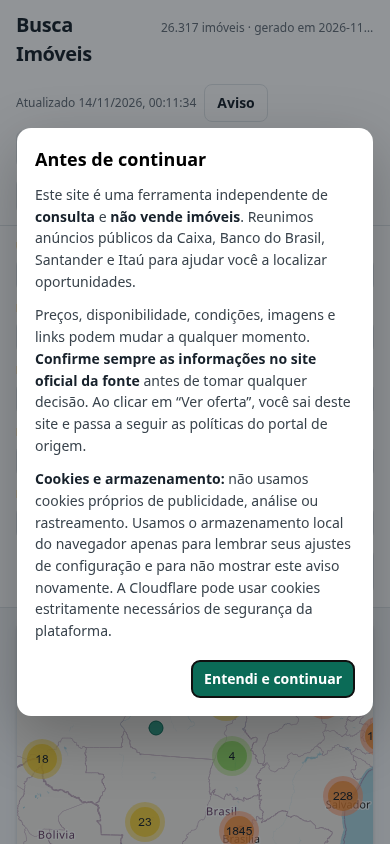
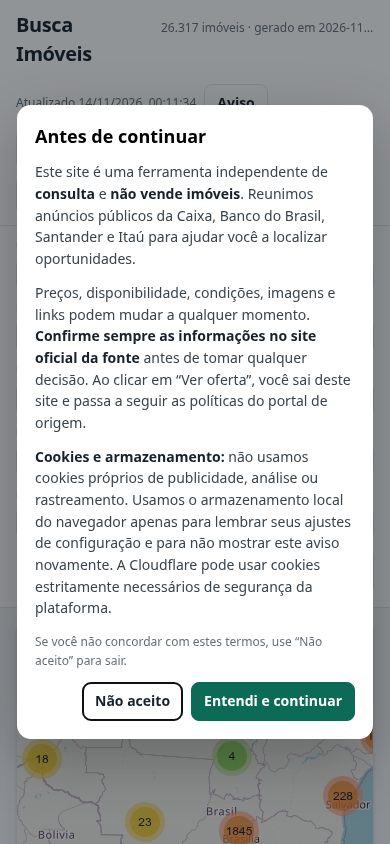
feat: botão Não aceito no aviso com saída para o Google

Changed region(s): [[0.0308, 0.1232, 0.9538, 0.8934]]

diff --git a/public/static/app.js b/public/static/app.js
@@ -292,6 +292,18 @@ function acceptNotice() {
   if (dialog) dialog.close();
 }
 
+function declineNotice() {
+  // window.close() só é permitido para abas abertas por script. Se o
+  // navegador bloquear, o fallback leva ao Google.
+  const canClose = window.opener && !window.opener.closed;
+  if (canClose) {
+    window.close();
+    setTimeout(() => window.location.replace("https://www.google.com/"), 300);
+    return;
+  }
+  window.location.replace("https://www.google.com/");
+}
+
 function showNoticeIfNeeded() {
   if (!noticeSeen()) openNotice();
 }
@@ -1620,6 +1632,7 @@ function bindEvents() {
   });
   $("#btn-notice").addEventListener("click", openNotice);
   $("#btn-notice-close").addEventListener("click", acceptNotice);
+  $("#btn-notice-decline").addEventListener("click", declineNotice);
   $("#btn-share").addEventListener("click", copyShareLink);
   $("#btn-geocode").addEventListener("click", () => startGeocode("filtered"));
   $("#btn-geocode-all").addEventListener("click", () => startGeocode("all"));

diff --git a/public/static/style.css b/public/static/style.css
@@ -287,7 +287,8 @@ dialog.notice-dialog { width: min(640px, 95vw); }
 .notice-form p { margin: 0 0 12px; font-size: 14px; line-height: 1.55; color: #39434c; }
 .notice-form p:last-of-type { margin-bottom: 0; }
 .notice-form strong { color: var(--ink); }
-.notice-actions { display: flex; justify-content: flex-end; margin-top: 18px; }
+.notice-decline-hint { margin-top: 14px !important; font-size: 12px !important; color: var(--muted) !important; }
+.notice-actions { display: flex; justify-content: flex-end; gap: 8px; flex-wrap: wrap; margin-top: 12px; }
 
 .config-form { padding: 18px; overflow: auto; max-height: 88vh; }
 .dialog-head { display: flex; align-items: center; justify-content: space-between; gap: 12px; margin-bottom: 6px; }

diff --git a/public/index.html b/public/index.html
@@ -183,7 +183,11 @@
         mostrar este aviso novamente. A Cloudflare pode usar cookies
         estritamente necessários de segurança da plataforma.
       </p>
+      <p class="notice-decline-hint">
+        Se você não concordar com estes termos, use “Não aceito” para sair.
+      </p>
       <div class="notice-actions">
+        <button id="btn-notice-decline" class="btn" type="button" title="Sair do site e ir para o Google">Não aceito</button>
         <button id="btn-notice-close" class="btn primary" type="button">Entendi e continuar</button>
       </div>
     </div>

diff --git a/docs/aviso-e-privacidade.md b/docs/aviso-e-privacidade.md
@@ -41,7 +41,21 @@ Título: **Antes de continuar**
 > novamente. A Cloudflare pode usar cookies estritamente necessários de
 > segurança da plataforma.
 
-Botão: **Entendi e continuar**
+Botões:
+
+- **Entendi e continuar** — fecha o aviso e grava a marca no `localStorage`.
+- **Não aceito** — tenta fechar a aba (quando ela foi aberta por script);
+  se o navegador bloquear, redireciona para `https://www.google.com/`.
+  O aviso não é marcado como lido; se a pessoa voltar, ele aparece de novo.
+
+> **Por que Google?** `window.close()` só funciona de forma confiável em abas
+> abertas por `window.open`. Em uma aba normal, o navegador ignora a chamada.
+> O redirecionamento com `location.replace` é a saída garantida e não deixa o
+> aviso no histórico.
+
+Texto do rodapé do aviso:
+
+> Se você não concordar com estes termos, use “Não aceito” para sair.
 
 ## 3. Sugestões alternativas
 

diff --git a/README.md b/README.md
@@ -211,7 +211,8 @@ Para outra frequência, edite o `cron`. O GitHub Actions sempre usa UTC.
 - **Aviso de primeira visita** — o site informa que é apenas consulta, que os
   dados devem ser confirmados nas fontes originais e que não há cookies
   próprios de análise/publicidade; usa-se `localStorage` para preferências e
-  para não repetir o aviso.
+  para não repetir o aviso. O botão **Não aceito** tenta fechar a aba e, se o
+  navegador bloquear, redireciona para o Google.
 - **Geocodificação** roda no Python, com cache e limite de requisições;
   os botões de geocodificação do site apenas orientam/abrem o workflow.
 - **Configurações** no navegador são locais; use Exportar + `importar_config.py`

diff --git a/docs/comparacao-visual.md b/docs/comparacao-visual.md
@@ -90,6 +90,8 @@ visita são mudanças intencionais solicitadas.
 - Primeira visita: o aviso abre automaticamente; “Entendi e continuar” fecha
   e grava a marca no `localStorage`; recarregar não reabre; o botão “Aviso”
   reabre quando quiser.
+- “Não aceito”: redireciona para `https://www.google.com/` (com tentativa de
+  fechar a aba quando permitido pelo navegador) e não grava a marca de leitura.
 - Console sem erros em desktop e mobile.
 
 ## 6. Conclusão
